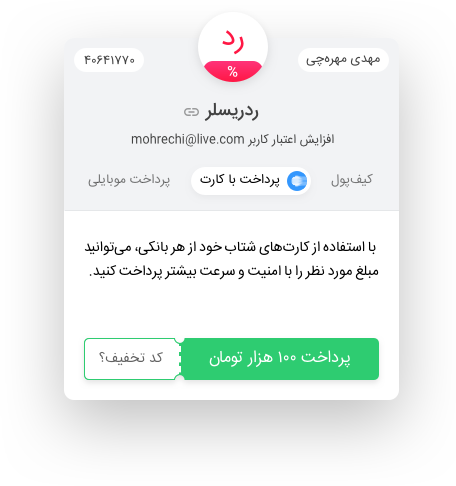
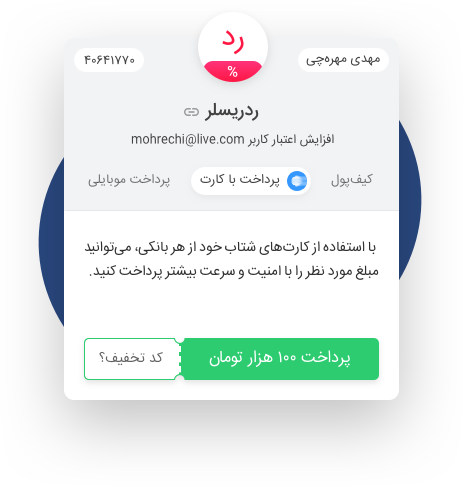
Update index.html

diff --git a/src/scss/pages/_index.scss b/src/scss/pages/_index.scss
@@ -66,6 +66,20 @@
 
 //Social payment
 .section-social-payment {
+  .bg-oblique {
+    &:before {
+      content: '';
+      top: 0;
+      z-index: -1;
+      height: 783px;
+      bottom: 0;
+      //background: url("../../images/index/bg-oblique.png") top left no-repeat;
+      position: absolute;
+      left: calc(57% - 10rem);
+      right: 0;
+      background-size: 925px 783px;
+    }
+  }
   .social-payment-background {
     background: url("../../images/index/social-image.png") no-repeat;
     width: 455px;
@@ -87,10 +101,32 @@
       color: #29447A;
     };
   }
-  .icon-warranty {
-    &:before {
-      content: $icon-zp-shetab;
-    }
+
+  .image-icon {
+    width: 20px;
+    height: 20px;
+    display: inline-block;
+    background-size: 100% !important;
+  }
+
+  .image-verified-account {
+      background: url("../../images/icon/verified-account.png") no-repeat;
+  }
+
+  .image-split {
+    background: url("../../images/icon/split.png") no-repeat;
+  }
+
+  .image-split {
+    background: url("../../images/icon/split.png") no-repeat;
+  }
+
+  .image-support {
+    background: url("../../images/icon/support.png") no-repeat;
+  }
+
+  .image-security {
+    background: url("../../images/icon/security.png") no-repeat;
   }
 
   .read-more-standards {
@@ -101,4 +137,14 @@
     }
   }
 
+}
+
+
+// extra small
+@media (max-width: 575px) {
+  .tag {
+    display: block !important;
+    margin: 10px auto;
+    width: 230px;
+  }
 }

diff --git a/src/scss/partials/_header.scss b/src/scss/partials/_header.scss
@@ -1,9 +1,12 @@
 .header {
+  margin-bottom: 40px;
+
   .new-logo {
     height: 35px;
     background-size: 100%;
     width: 156px;
-    background-image: url("../../images/new-logo.png");
+    background: url("../../images/new-logo.svg") no-repeat;
+    margin-top: 20px;
   }
 
   .links {
@@ -15,6 +18,11 @@
     }
   }
 
+  .icon-menu {
+      float: left;
+      margin: 10px;
+      font-size: 30px;
+  }
 
   .bg-mobile-menu {
     position: fixed;
@@ -38,15 +46,28 @@
       background-color: #fff;
       text-align: left;
       padding: 10px;
+
+      .icon-close {
+        cursor: pointer;
+        font-size: 30px;
+      }
     }
 
     .middle {
       background-color: #fff;
+
+      ul {
+        padding-right: 30px;
+
+        li {
+          padding: 5px 0;
+        }
+      }
     }
 
     .bottom {
       background-color: #eee;
-      padding: 10px;
+      padding: 20px 30px;
     }
 
   }

diff --git a/src/scss/partials/_customer.scss b/src/scss/partials/_customer.scss
@@ -1,15 +1,16 @@
 .customers {
   .title {
     font-size: 20px;
+    margin: 20px 0;
   }
 
   .images {
     text-align: center;
     .logo {
       padding: 0;
-      margin: 0;
-      width: 181px;
-      height: 58px;
+      margin: 20px 10px;
+      width: 91px;
+      height: 29px;
       background-repeat: no-repeat;
       background-size: 100% 100%;
       display: inline-block;
@@ -32,6 +33,9 @@
       @include customer-logo("../../images/customer-1.png")
     }
     .logo-5 {
+      @include customer-logo("../../images/customer-1.png")
+    }
+    .logo-6 {
       @include customer-logo("../../images/customer-1.png")
     }
   }

diff --git a/src/scss/partials/_footer.scss b/src/scss/partials/_footer.scss
@@ -5,7 +5,7 @@
 
   &:before {
     content: '';
-    top: -551px;
+    top: -470px;
     z-index: -1;
     height: 783px;
     background: url("../../images/footer-gradient.png") top left no-repeat;
@@ -22,4 +22,9 @@
       opacity: 0.6;
     }
   }
+
+  .bottom {
+    margin: 40px 0;
+  }
+
 }

diff --git a/webpack.mix.js b/webpack.mix.js
@@ -19,7 +19,7 @@ mix.setPublicPath('public')
     .pug('src/pug/*.pug', 'public', {
         seeds: 'public',
         locals: {
-            lang: 'en'
+            lang: 'fa'
         }
     })
     // .pug('src/pug/*.pug', 'public', {

diff --git a/src/scss/responsive/_media.scss b/src/scss/responsive/_media.scss
@@ -3,6 +3,10 @@
   .hidden-xs {
     display: none;
   }
+
+  .xs-ta-center {
+    text-align: center;
+  }
 }
 
 // Small devices (landscape phones, 576px and up)

diff --git a/src/scss/pages/_common.scss b/src/scss/pages/_common.scss
@@ -25,6 +25,10 @@ li {
   text-align: center;
 }
 
+.pull-left {
+  float: left;
+}
+
 .horizontal-line {
   background-color: #DFE1E4;
   height: 1px;
